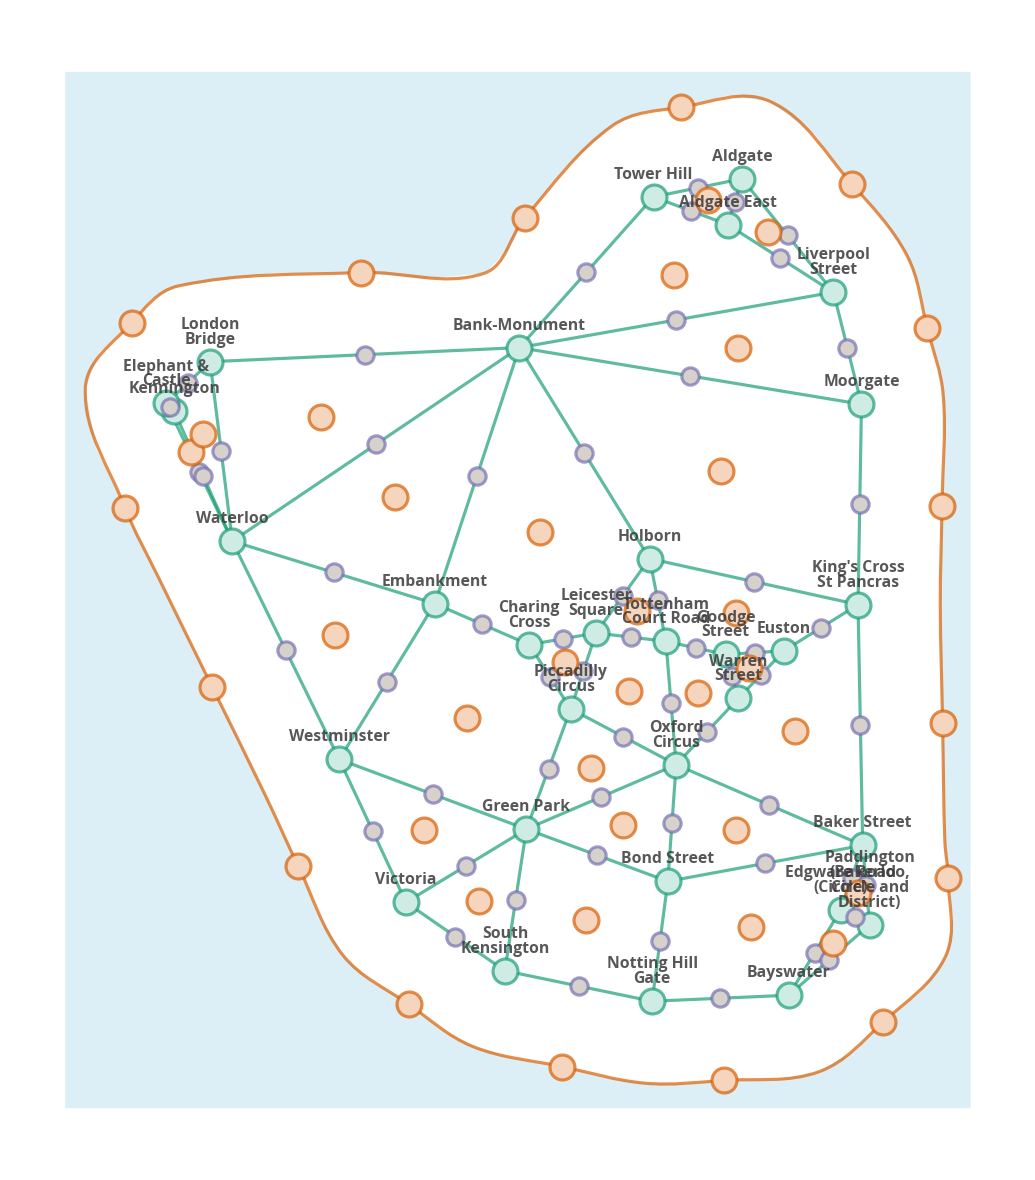
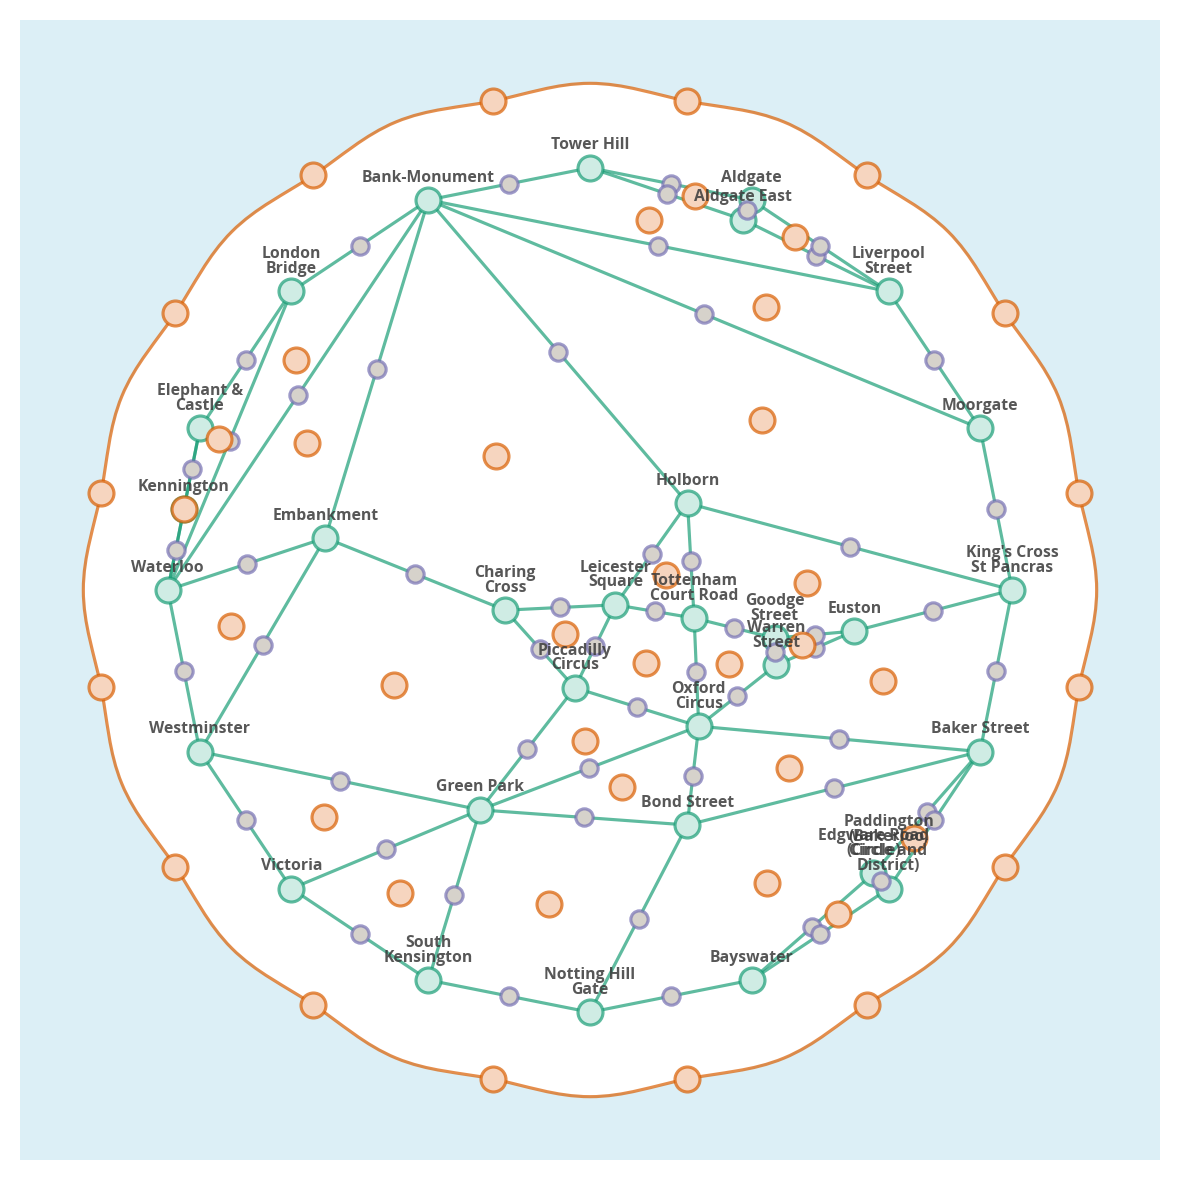
Zone 1 map attempts

diff --git a/map_rendering.py b/map_rendering.py
@@ -2750,17 +2750,17 @@ VIS_STYLE = {
 
 
 # Run configuration
-PATH = "raw_data/20260423-Low Variance.xlsx"
-USE_TUTTE = True  # Whether to use Tutte embedding for initial layout, or just the combinatorial embedding layout. Tutte is often better but can be very slow for larger graphs.
+PATH = "raw_data/20260421-Zone 1-Bank-Mon.xlsx"
+USE_TUTTE = False  # Whether to use Tutte embedding for initial layout, or just the combinatorial embedding layout. Tutte is often better but can be very slow for larger graphs.
 # Tutte will only work if there are no 'bridges' / danglers in the outer face
 # Otherwise outer face nodes get repeated and it breaks
-REFINE = False  # Whether to run the optional refinement pass after the initial layout. This can improve spacing and face quality, but is also quite slow, especially for larger graphs. If using REFINE=True, you may want to tweak the WEIGHTS below to get better results - the current values are just what worked well for the Hammer of the Scots graph.
+REFINE = True  # Whether to run the optional refinement pass after the initial layout. This can improve spacing and face quality, but is also quite slow, especially for larger graphs. If using REFINE=True, you may want to tweak the WEIGHTS below to get better results - the current values are just what worked well for the Hammer of the Scots graph.
 WEIGHTS = {
     "node_spread": 1,  # Rewards spreading out nodes
     "edge_uniformity": 0,  # Rewards edges of similar length
     "face_area": 0.0,  # Rewards faces having similar area
-    "angle_penalty": 0,  # Rewards angles that are nicely spread around their nodes
-    "outer_roundness": 0.0,  # Rewards outer face nodes being placed in a more circular arrangement, rather than all bunched up on one side
+    "angle_penalty": 1,  # Rewards angles that are nicely spread around their nodes
+    "outer_roundness": 1.0,  # Rewards outer face nodes being placed in a more circular arrangement, rather than all bunched up on one side
     "outer_concavity": 100.0,  # Penalises outer face nodes being placed in a concave arrangement, which can lead to weird dual edges that loop around the outside of the drawing
 }
 
